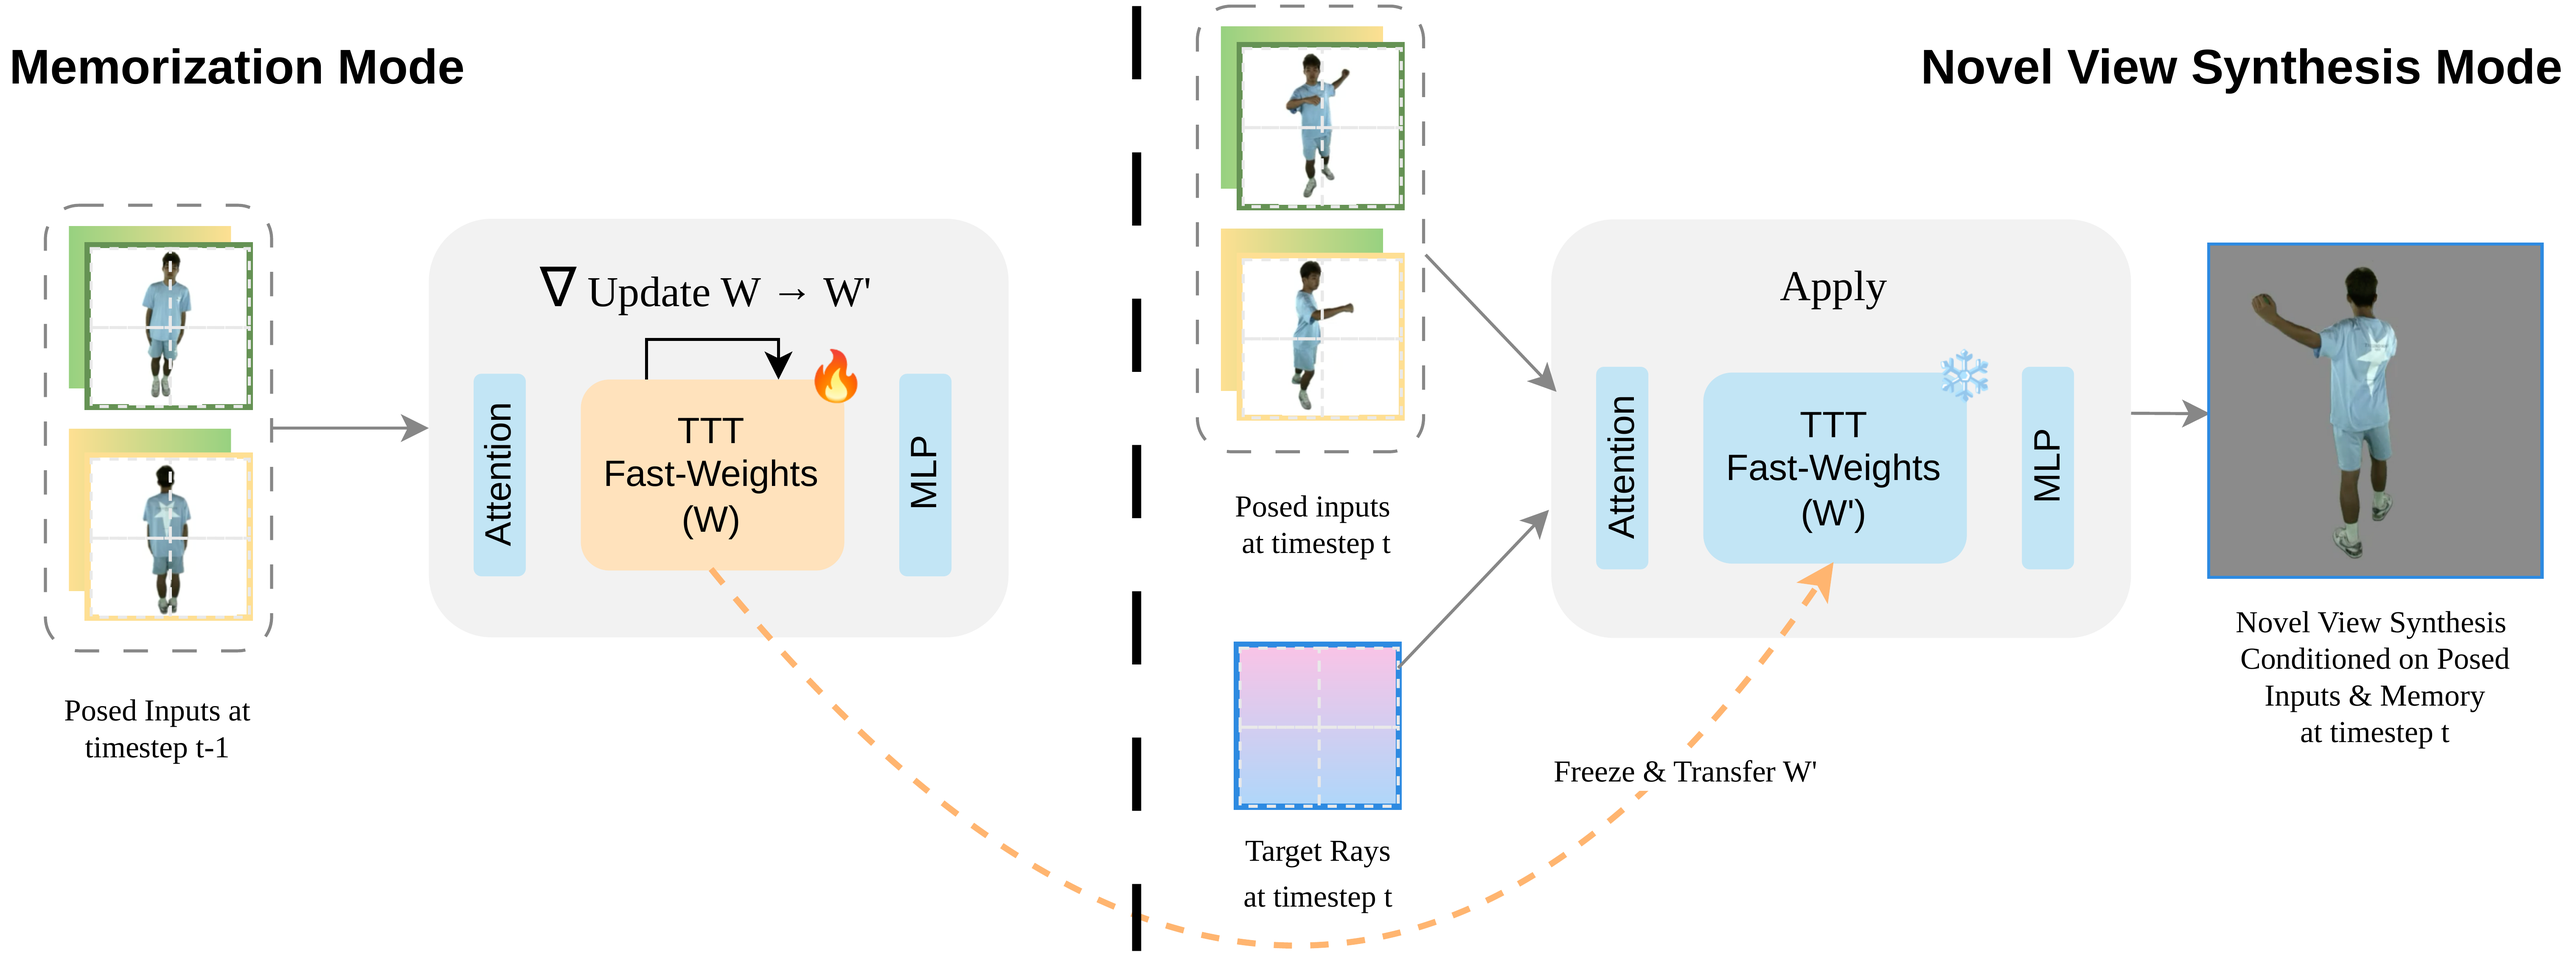
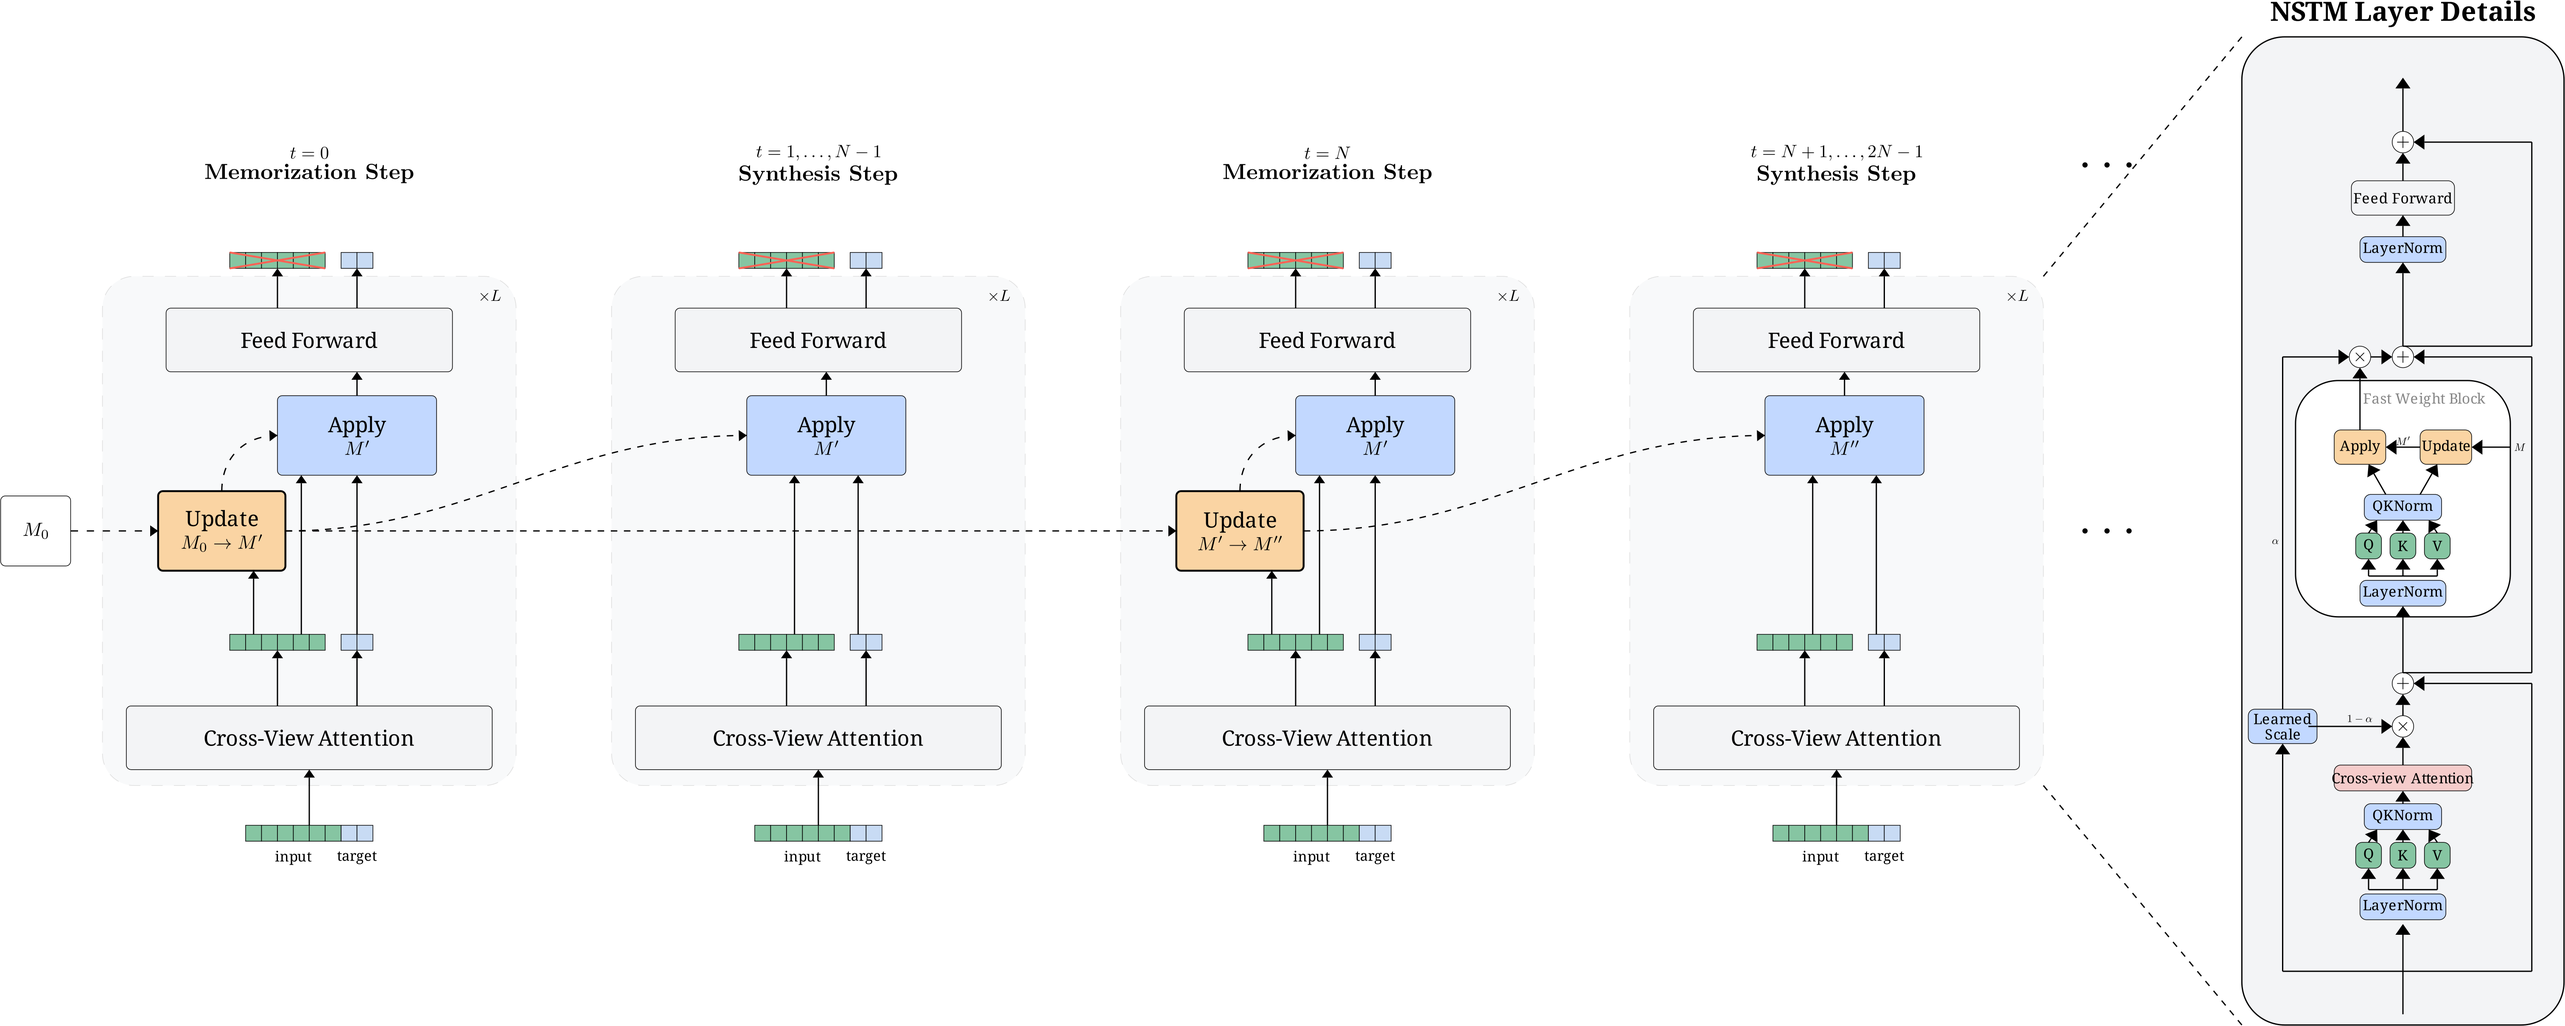
Revert architecture figure + caption to original (not a WACV figure)
The architecture diagram (neural_space_time_memory_architecture.pdf) is only
referenced by obsolete method.tex/method_backup.tex — it is NOT in the WACV
main paper or supplemental. The earlier regeneration wrongly swapped the
team's detailed architecture diagram (Memorization/Synthesis Steps + NSTM
Layer Details panel) for a different orphaned figure. Restore the original
image and caption.

diff --git a/index.html b/index.html
@@ -269,11 +269,11 @@
               <img src="resources/architecture_v2.png"
                 alt="NSTM architecture with memorization and synthesis steps and layer details">
               <p class="caption-text">
-                <em>NSTM Architecture:</em> NSTM operates in two alternating modes. In
-                Memorization Mode, the model attends over multi-view inputs and updates its
-                fast-weight memory with a test-time gradient step (W &rarr; W'). In Novel View
-                Synthesis Mode, the updated memory is frozen and applied &mdash; together with the
-                current posed inputs and target rays &mdash; to render novel views in real time.
+                <em>NSTM Architecture:</em> NSTM alternates between Memorization Steps, where
+                fast-weight memory is updated via Apply/Update operations, and Synthesis Steps,
+                where the memory is read-only queried for novel view rendering. The NSTM Layer
+                (right) combines cross-view attention, learned scale modulation, and fast-weight
+                Apply/Update blocks with LayerNorm and feed-forward layers.
               </p>
             </div>
 <!-- Slide 2: Training regime -->

diff --git a/sections/overview-graph.html b/sections/overview-graph.html
@@ -19,11 +19,11 @@
               <img src="resources/architecture_v2.png"
                 alt="NSTM architecture with memorization and synthesis steps and layer details">
               <p class="caption-text">
-                <em>NSTM Architecture:</em> NSTM operates in two alternating modes. In
-                Memorization Mode, the model attends over multi-view inputs and updates its
-                fast-weight memory with a test-time gradient step (W &rarr; W'). In Novel View
-                Synthesis Mode, the updated memory is frozen and applied &mdash; together with the
-                current posed inputs and target rays &mdash; to render novel views in real time.
+                <em>NSTM Architecture:</em> NSTM alternates between Memorization Steps, where
+                fast-weight memory is updated via Apply/Update operations, and Synthesis Steps,
+                where the memory is read-only queried for novel view rendering. The NSTM Layer
+                (right) combines cross-view attention, learned scale modulation, and fast-weight
+                Apply/Update blocks with LayerNorm and feed-forward layers.
               </p>
             </div>
 <!-- Slide 2: Training regime -->
